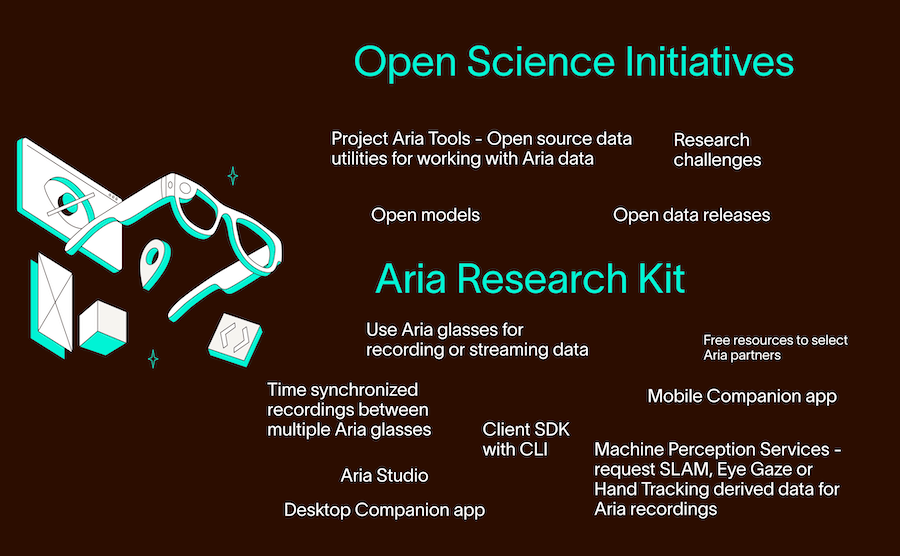
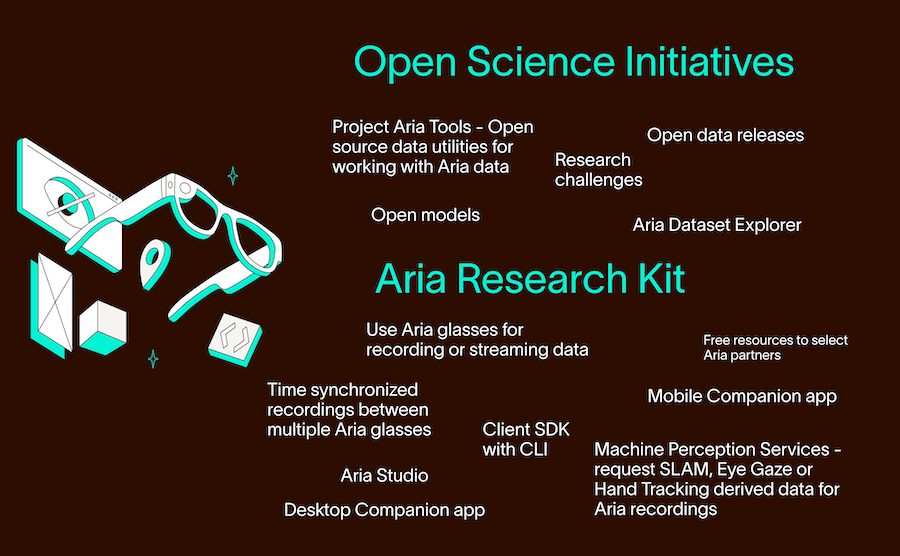
{Documentation} Links to Hot3D, Nymeria and minor updates
Summary:
* Add Hot3D and Nymeria links
* Update Timestamps in Aria VRS to include TICSync
* Update graphic to show Aria Dataset Explorer
* Minor wording changes

Reviewed By: eoleinik

Differential Revision: D58609687

fbshipit-source-id: 310ddedac5c232c7605797da5f8b768268f3f691

Changed region(s): [[0.3422, 0.214, 0.9022, 0.3363], [0.6844, 0.3669, 0.9022, 0.4281]]

diff --git a/website/docs/intro.md b/website/docs/intro.md
@@ -9,32 +9,35 @@ title: Introduction to Project Aria Docs
 
 Project Aria’s offering to the external community is organized into two major pillars:
 
-* **Open Science Initiatives **are a collection of open-sourced egocentric datasets, models for egocentric AI applications, and tooling for working with the datasets that you can download and start experimenting with right now. We also have a set of challenges that we pose to the research community for solving AI problems.
-* The **Aria Research Kit** is a specialized toolkit for egocentric data collection. The kit comes with the Aria glasses for multimodal egocentric data capture, a mobile companion app for operating the glasses, a desktop application for dataset management and review, a command-line interface for programmatically operating the glasses, Machine Perception Services (MPS) for post-processing collected data, and a Client SDK for the development of custom applications and integrations. Qualified academic and commercial research partners can apply to obtain the [Aria Research Kit](https://www.projectaria.com/research-kit/).
+* **Open Science Initiatives** are a collection of open-sourced egocentric datasets, models for egocentric AI applications, and tooling for working with the datasets that you can download and start experimenting with right now. We also have a set of challenges that we pose to the research community for solving AI problems.
+* The **Aria Research Kit** is a specialized toolkit for egocentric data collection. The kit comes with the Aria glasses for multimodal egocentric data capture, a mobile companion app for operating the glasses, applications for dataset management and review, a command-line interface for programmatically operating the glasses, Machine Perception Services (MPS) for post-processing collected data, and a Client SDK for the development of custom applications and integrations. Qualified academic and commercial research partners can apply to obtain the [Aria Research Kit](https://www.projectaria.com/research-kit/).
 
 ![About Project Aria, showing services provided, simliar to what is in the FAQ](/img/intro.png)
 
 ## New to Project Aria?
 
 * Go to [projectaria.com](http://projectaria.com) to get an overview of the program
-* Go to [Aria Dataset Explorer](/open_datasets/dataset_explorer/dataset_explorer.mdx) to search and preview some of Aria’s open data
+* Go to [Aria Dataset Explorer](https://explorer.projectaria.com/) to search and preview some of Aria’s open data
 * Go to the [Project Aria FAQ](faq.mdx) for an overview of our current service offerings, capabilities and software ecosystem
 
-## Want to get involved with Open Science Initiatives?
+## Want to get involved with Open Science Initiatives (OSI)?
 
 We believe that open source accelerates the pace of innovation in the world. We’re excited to share our code, models and data and collaborate together on Open Science that can help shape the future.
 
 Open datasets powered by Project Aria data include:
 
-* [Aria Everyday Activities (AEA)](/open_datasets/aria_everyday_activities_dataset/aria_everyday_activities_dataset.mdx)
-* [Aria Digital Twin (ADT)](https://www.projectaria.com/datasets/adt/)
-* [Aria Synthetic Environments (ASE)](https://www.projectaria.com/datasets/ase/)
+* [Aria Everyday Activities (AEA)](/open_datasets/aria_everyday_activities_dataset/aria_everyday_activities_dataset.mdx) - a re-release of Aria’s first Pilot Dataset, updated with new tooling and location data, to accelerate the state of machine perception and AI.
+* [Aria Digital Twin (ADT)](https://www.projectaria.com/datasets/adt/) - a real-world dataset, with hyper-accurate digital counterpart & comprehensive ground-truth annotation
+* [Aria Synthetic Environments (ASE)](https://www.projectaria.com/datasets/ase/) - a procedurally-generated synthetic Aria dataset for large-scale ML research
+* [HOT3D](https://www.projectaria.com/datasets/hot3d/) - a new benchmark dataset for vision-based understanding of 3D hand-object interactions
+* [Nymeria](https://www.projectaria.com/datasets/nymeria/) - a large-scale multimodal egocentric dataset for full-body motion understanding
+
 
 Research challenges, using our open datasets, are posted to [projectaria.com](https://www.projectaria.com/challenges/).
 
 Models created using Aria data include:
-* [EgoBlur](https://www.projectaria.com/tools/egoblur/), an open source AI model from Meta to preserve privacy by detecting and blurring PII from images. Designed to work with egocentric data (such as Aria data) and non-egocentric data.
-* [Project Aria Eye Tracking](https://github.com/facebookresearch/projectaria_eyetracking), an open source inference code for the [Pre March 2024 Eye Gaze Model](/data_formats/mps/mps_eye_gaze.mdx) used by Machine Perception Services (MPS)
+* [EgoBlur](https://www.projectaria.com/tools/egoblur/) - an open source AI model from Meta to preserve privacy by detecting and blurring PII from images. Designed to work with egocentric data (such as Aria data) and non-egocentric data.
+* [Project Aria Eye Tracking](https://github.com/facebookresearch/projectaria_eyetracking) - an open source inference code for the [Pre March 2024 Eye Gaze Model](/data_formats/mps/mps_eye_gaze.mdx) used by Machine Perception Services (MPS)
 
 Aria data is recorded using [VRS](/data_formats/aria_vrs/aria_vrs.mdx), an open source file format. Our open source code, [Project Aria Tools](/data_utilities/data_utilities.mdx), provides a C++ and Python interface that helps people incorporate VRS data into a wide range of downstream applications.
 
